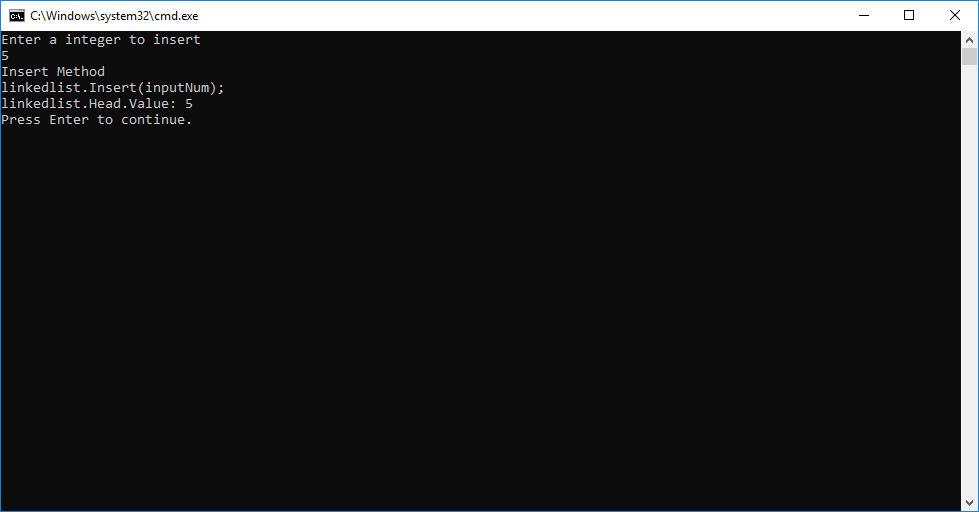
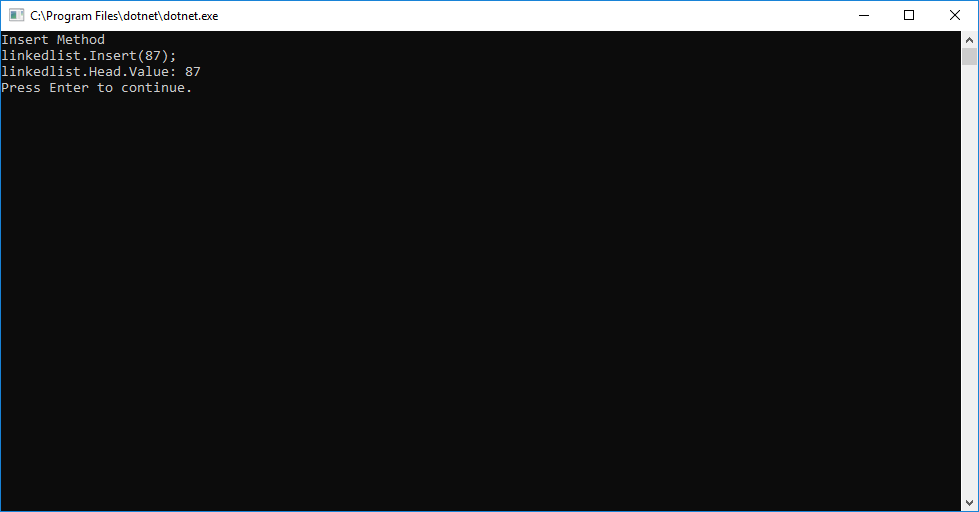
Finished testing, wrote ReadMe with updated images.

Changed region(s): [[0.0, 0.0, 0.2451, 0.25]]

diff --git a/LinkedList/LinkedList/Program.cs b/LinkedList/LinkedList/Program.cs
@@ -14,30 +14,48 @@ namespace LinkedList
             Console.ReadLine();
             Console.Clear();
 
-            bool haveInput = false;
-            int inputNum = 0;
-            while (!haveInput)
-            {
-                Console.WriteLine("Enter a integer to insert");
-                string input = Console.ReadLine();
-                haveInput = int.TryParse(input, out inputNum);
-            }
-
             Console.WriteLine("Insert Method");
-            Console.WriteLine("linkedlist.Insert(inputNum);");
-            linkedlist.Insert(inputNum);
+            Console.WriteLine("linkedlist.Insert(87);");
+            linkedlist.Insert(87);
             Console.WriteLine($"linkedlist.Head.Value: {linkedlist.Head.Value}");
             Console.WriteLine("Press Enter to continue.");
             Console.ReadLine();
 
             Console.Clear();
-            Console.WriteLine("Adding other values to linkedlist: 55, 87, 33, 42");
-            linkedlist.Insert(55);
-            linkedlist.Insert(87);
-            linkedlist.Insert(33);
-            linkedlist.Insert(42);
+
+
+            Console.WriteLine("Append Method");
+            Console.WriteLine("linkedlist.Append(42);");
+            linkedlist.Append(42);
+            Console.WriteLine($"linkedlist.Head.Value: {linkedlist.Head.Value}");
+            Console.WriteLine($"linkedlist.Head.Next.Value: {linkedlist.Head.Next.Value}");
+            Console.WriteLine("Press Enter to continue.");
+            Console.ReadLine();
+
+            Console.Clear();
+
+            Console.WriteLine("InsertBefore Method");
+            Console.WriteLine("linkedlist.InsertBefore(33, 42);");
+            linkedlist.InsertBefore(33, 42);
+            Console.WriteLine($"linkedlist.Head.Next.Value: {linkedlist.Head.Next.Value}");
+            Console.WriteLine($"linkedlist.Head.Next.Next.Value: {linkedlist.Head.Next.Next.Value}");
+            Console.WriteLine("Press Enter to continue.");
+            Console.ReadLine();
+
+            Console.Clear();
+
+            Console.WriteLine("InsertAfter Method");
+            Console.WriteLine("linkedlist.InsertAfter(55, 87);");
+            linkedlist.InsertAfter(55, 87);
+            Console.WriteLine($"linkedlist.Head.Value: {linkedlist.Head.Value}");
+            Console.WriteLine($"linkedlist.Head.Next.Value: {linkedlist.Head.Next.Value}");
+            Console.WriteLine("Press Enter to continue.");
+            Console.ReadLine();
+
+            Console.Clear();
+
             Console.WriteLine("Includes Method");
-            Console.WriteLine($"linkedlist should contain the following values in nodes: {inputNum}, 55, 87, 33, 42");
+            Console.WriteLine("linkedlist should contain the following values in nodes: 87, 55, 33, 42");
             Console.WriteLine("bool testTrue = linkedlist.Includes(55)");
             bool testTrue = linkedlist.Includes(55);
             Console.WriteLine($"testTrue should be true, testTrue: {testTrue}");
@@ -51,7 +69,7 @@ namespace LinkedList
             Console.Clear();
 
             Console.WriteLine("Length Method");
-            Console.WriteLine($"linkedlist should contain the following values in nodes: {inputNum}, 55, 87, 33, 42");
+            Console.WriteLine("linkedlist should contain the following values in nodes: 87, 55, 33, 42");
             Console.WriteLine("int length = linkedlist.Length()");
             int length = linkedlist.Length();
             Console.WriteLine($"length: {length}");
@@ -60,7 +78,7 @@ namespace LinkedList
             Console.ReadLine();
             Console.Clear();
             Console.WriteLine("Print Method");
-            Console.WriteLine($"linkedlist should contain the following values in nodes: {inputNum}, 55, 87, 33, 42");
+            Console.WriteLine("linkedlist should contain the following values in nodes: 87, 55, 33, 42");
 
             Console.WriteLine("int[] array = linkedlist.Print();");
             int[] array = linkedlist.Print();

diff --git a/LinkedList/TestLinkedList/UnitTest1.cs b/LinkedList/TestLinkedList/UnitTest1.cs
@@ -102,5 +102,101 @@ namespace TestLinkedList
             Assert.Equal(expected, actual);
         }
 
+        [Theory]
+        [InlineData(2)]
+        [InlineData(3)]
+        [InlineData(4)]
+        [InlineData(5)]
+        public void TestAppendLinkedList(int expected)
+        {
+            LinkedList.Classes.LinkedList listToTest = new LinkedList.Classes.LinkedList();
+            listToTest.Insert(1);
+            Assert.Null(listToTest.Head.Next);
+            listToTest.Append(expected);
+            Assert.Equal(expected, listToTest.Head.Next.Value);
+        }
+
+        [Theory]
+        [InlineData(1, 2)]
+        [InlineData(2, 3)]
+        [InlineData(5, 4)]
+        [InlineData(1, 8)]
+        public void TestInsertBeforeWithNullHead(int value, int before)
+        {
+            LinkedList.Classes.LinkedList listToTest = new LinkedList.Classes.LinkedList();
+            Assert.Null(listToTest.Head);
+            listToTest.InsertBefore(value, before);
+            Assert.Equal(value, listToTest.Head.Value);
+        }
+
+        [Theory]
+        [InlineData(1, 2)]
+        [InlineData(2, 3)]
+        [InlineData(5, 4)]
+        [InlineData(1, 8)]
+        public void TestInsertBeforeWithOneNode(int value, int before)
+        {
+            LinkedList.Classes.LinkedList listToTest = new LinkedList.Classes.LinkedList();
+            listToTest.Insert(before);
+            listToTest.InsertBefore(value, before);
+            Assert.Equal(value, listToTest.Head.Value);
+        }
+
+        [Theory]
+        [InlineData(1, 2)]
+        [InlineData(2, 3)]
+        [InlineData(5, 4)]
+        [InlineData(1, 8)]
+        public void TestInsertBeforeWithMultipleNodes(int value, int before)
+        {
+            LinkedList.Classes.LinkedList listToTest = new LinkedList.Classes.LinkedList();
+            listToTest.Insert(before);
+            listToTest.Insert(5);
+            listToTest.InsertBefore(value, before);
+            Assert.Equal(value, listToTest.Head.Next.Value);
+        }
+
+        [Theory]
+        [InlineData(1, 2)]
+        [InlineData(2, 3)]
+        [InlineData(5, 4)]
+        [InlineData(1, 8)]
+        public void TestInsertAfterWithNullHead(int value, int after)
+        {
+            LinkedList.Classes.LinkedList listToTest = new LinkedList.Classes.LinkedList();
+            Assert.Null(listToTest.Head);
+            listToTest.InsertAfter(value, after);
+            Assert.Equal(value, listToTest.Head.Value);
+        }
+
+        [Theory]
+        [InlineData(1, 2)]
+        [InlineData(2, 3)]
+        [InlineData(5, 4)]
+        [InlineData(1, 8)]
+        public void TestInsertAfterWithOneNode(int value, int after)
+        {
+            LinkedList.Classes.LinkedList listToTest = new LinkedList.Classes.LinkedList();
+            listToTest.Insert(after);
+            listToTest.InsertAfter(value, after);
+            Assert.Equal(value, listToTest.Head.Next.Value);
+        }
+
+        [Theory]
+        [InlineData(1, 2)]
+        [InlineData(2, 3)]
+        [InlineData(5, 4)]
+        [InlineData(1, 8)]
+        public void TestInsertAfterWithMultipleNodes(int value, int after)
+        {
+            LinkedList.Classes.LinkedList listToTest = new LinkedList.Classes.LinkedList();
+            listToTest.Insert(5);
+            listToTest.Insert(after);
+            listToTest.InsertAfter(value, after);
+            Assert.Equal(value, listToTest.Head.Next.Value);
+        }
+
+
+
     }
 }

diff --git a/LinkedList/ReadMe.md b/LinkedList/ReadMe.md
@@ -14,6 +14,9 @@ This is a C# implementation of a linked list. It instantiates the linked list in
 | Method | Summary | Big O Time | Big O Space | Example | 
 | :----------- | :----------- | :-------------: | :-------------: | :----------- |
 | Insert | Adds a new `Node` to the `Linked List` | O(1) | O(1) | myList.Insert(99) |
+| Append | Adds a new `Node` at the end of the `Linked List` | O(n) | O(1) | myList.Append(99) |
+| InsertBefore | Adds a new `Node` into the `Linked List` before the first `Node` containing a given value | O(n) | O(1) | myList.InsertBefore(99) |
+| InsertAfter | Adds a new `Node` into the `Linked List` after the first `Node` containing a given value | O(n) | O(1) | myList.InsertAfter(99) |
 | Includes | Takes in a value and returns a boolean if the value is in the `LinkedList` | O(n) | O(1) | myList.Includes(99) |
 | Length | Iterates over the list and returns an integer value for the length | O(n) | O(1) | myList.Length() |
 | Print | Prints the `Linked List` to the console | O(n) | O(n) | myList.Print() |
@@ -26,6 +29,18 @@ This is a C# implementation of a linked list. It instantiates the linked list in
 ##### Insert Method
 Insert first creates a new node using the value provided and the current head, it then replaces the current head with this new node. By doing this it causes the previous head to be the second node and the new node to take the place as the head.
 ![Insert Method](./assets/insert.PNG)
+
+##### Append Method
+Append first iterates to the end of the Linked List, then creates a new node containing the given value and places it at the end.
+![Append Method](./assets/append.PNG)
+
+##### InsertBefore Method
+InsertBefore first checks to see if the head is null, if so it Inserts a node at the head containing the value. It then checks to see if the node to place before is Included in the list, if not it places a new node at the end of the list with the value. Once it has determined the node is present it iterates to that node keeping track of the previous node as it does and places a node between the previous and node to place before.
+![Insert Method](./assets/insertbefore.PNG)
+
+##### InsertAfter Method
+InsertAfter first checks to see if the head is null, if so it Inserts a node at the head containing the value. It then checks to see if the node to place before is Included in the list, if not it places a new node at the end of the list with the value. Once it has determined the node is present it iterates to that node and places the new node after it.
+![Insert Method](./assets/insertafter.PNG)
 
 ##### Includes Method
 Includes first checks if the head is null and returns false if it is. After checking if head is null it looks at the first node for the value and then proceeds to iterate over the list and if it ever finds the value in the list it returns true. Returns false if it makes it to the end of the list without finding the value.
